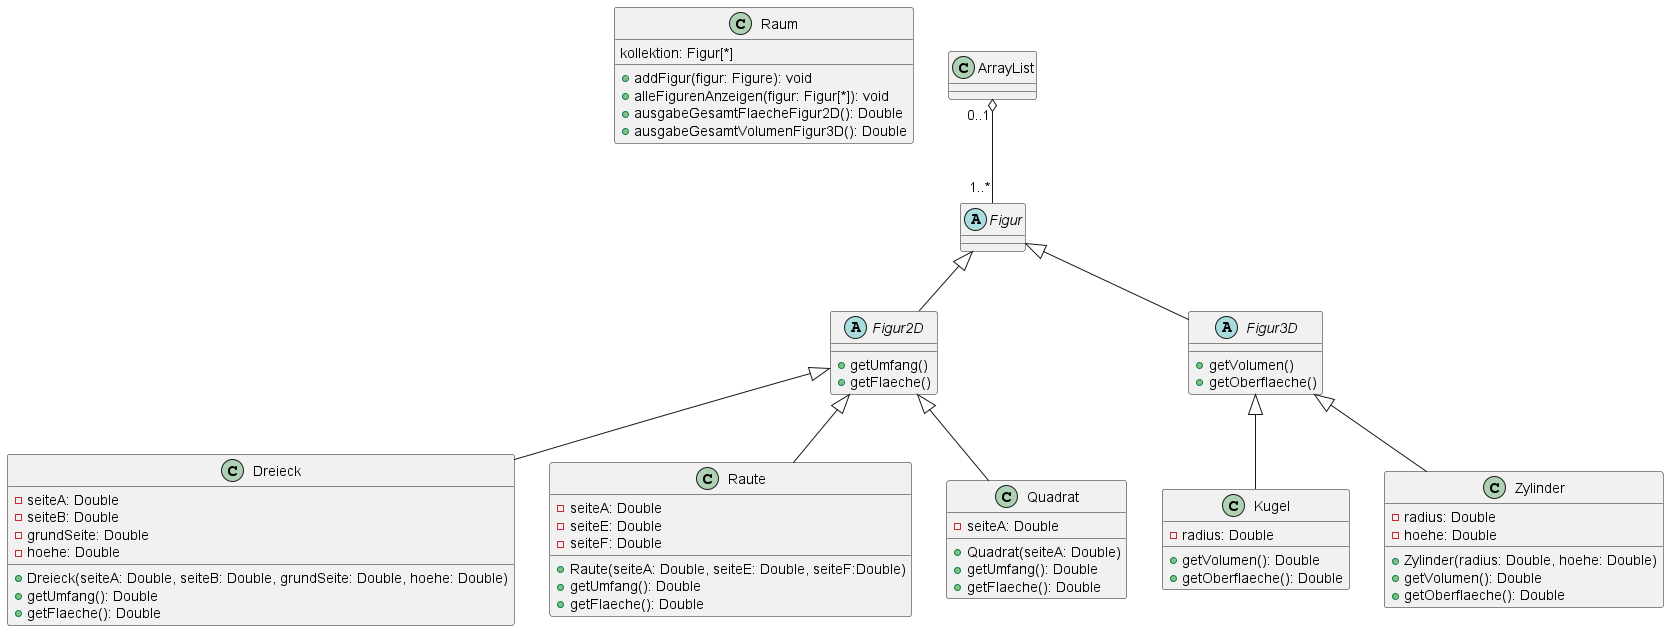
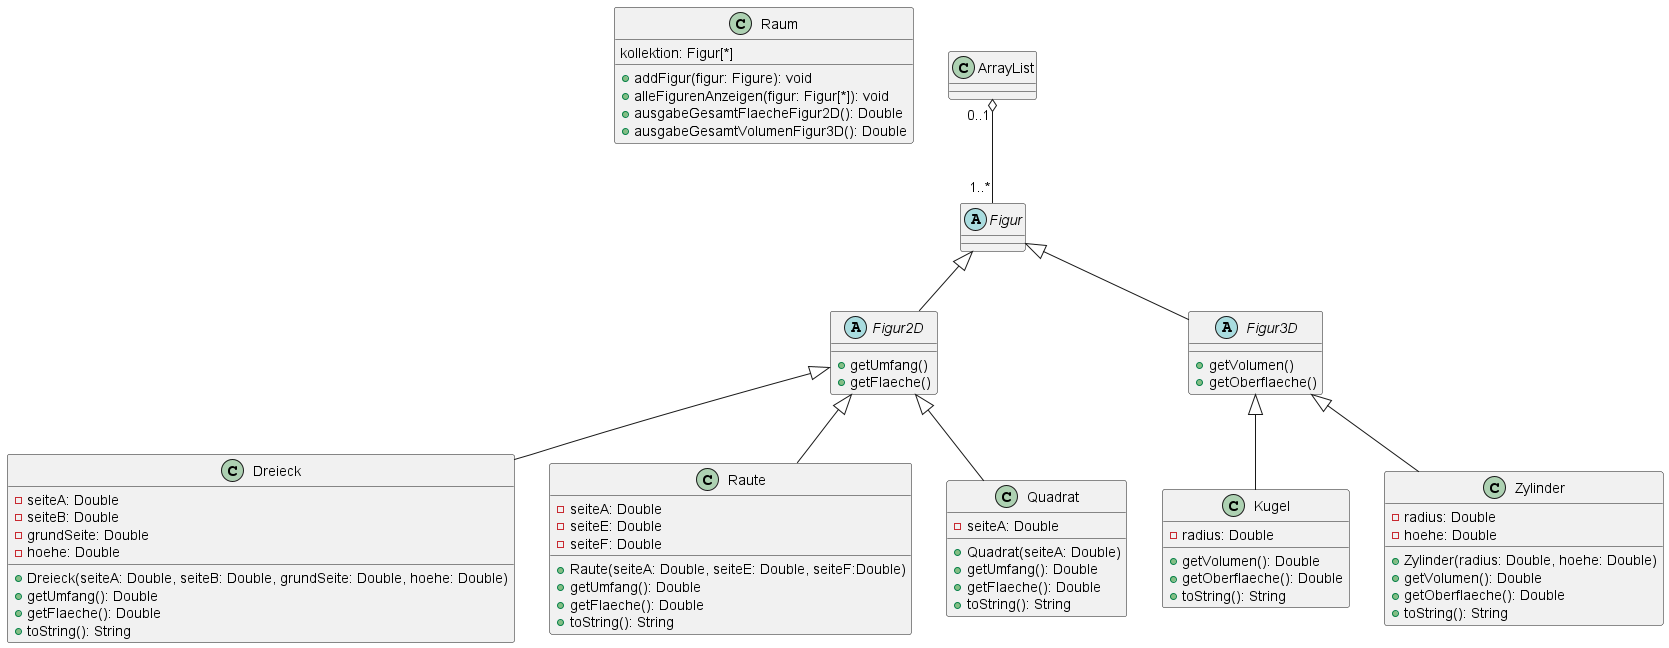
develop: further progress in figures

diff --git a/figuren/Raute.java b/figuren/Raute.java
@@ -22,4 +22,10 @@ public class Raute extends Figur2D
     {
         return 0.5 * this.seiteE * this.seiteF;
     }
+
+    @Override
+    public String toString() {
+        return "Type = " + "Figur.Figur3D.Raute;\n" + this.toStringUmfangFlaeche()
+        + "Properties = [{double seiteE: " + this.seiteE + "} "+ "\n{double seiteF: " + this.seiteF;
+    }
 }

diff --git a/figuren/Kugel.java b/figuren/Kugel.java
@@ -19,4 +19,10 @@ public class Kugel extends Figur3D
     {
         return 4 * Math.PI * Math.pow(this.radius, 2);
     }
+
+    @Override
+    public String toString() {
+        return "Type = " + "Figur.Figur3D.Kugel;\n" + this.toStringVolumenOberflaeche()
+        + "Properties = [{double radius: " + this.radius + "}];\n";
+    }
 }

diff --git a/figuren/Quadrat.java b/figuren/Quadrat.java
@@ -18,4 +18,10 @@ public class Quadrat extends Figur2D
     {
         return this.seiteA * this.seiteA;
     }
+
+    @Override
+    public String toString() {
+        return "Type = " + "Figur.Figur2D.Quadrat;\n" + this.toStringUmfangFlaeche()
+        + "Properties = [{double seiteA: " + this.seiteA + "}];\n";
+    }
 }

diff --git a/figuren/Figur3D.java b/figuren/Figur3D.java
@@ -4,4 +4,8 @@ abstract class Figur3D extends Figur
 {
     public abstract double getVolumen();
     public abstract double getOberflaeche();
+    protected String toStringVolumenOberflaeche() {
+        return "Volumen = " + this.getVolumen() +";\n"
+        + "Oberfläche = " + this.getOberflaeche() + ";\n";
+    }
 }

diff --git a/figuren/Figur2D.java b/figuren/Figur2D.java
@@ -4,4 +4,8 @@ abstract class Figur2D extends Figur
 {
     public abstract double getUmfang();
     public abstract double getFlaeche();
+    protected String toStringUmfangFlaeche() {
+        return "Umfang = " + this.getUmfang() + ";\n"
+        + "Fläche = " + this.getFlaeche() + ";\n";
+    }
 }

diff --git a/ArrayUebung/Zeiterfassung.java b/ArrayUebung/Zeiterfassung.java
@@ -22,7 +22,7 @@ public class Zeiterfassung {
 
         for (Zeitstempel zeit: zeitArray)
         {
-            System.out.println(zeit.toString());
+            System.out.print(zeit.toString());
         }
     }
     

diff --git a/figuren/Figur.java b/figuren/Figur.java
@@ -1,5 +1,5 @@
 package figuren;
 
 abstract class Figur {
-
+    
 }
